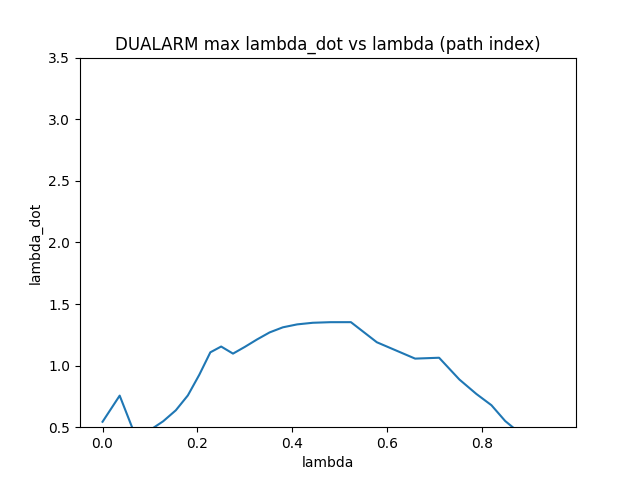
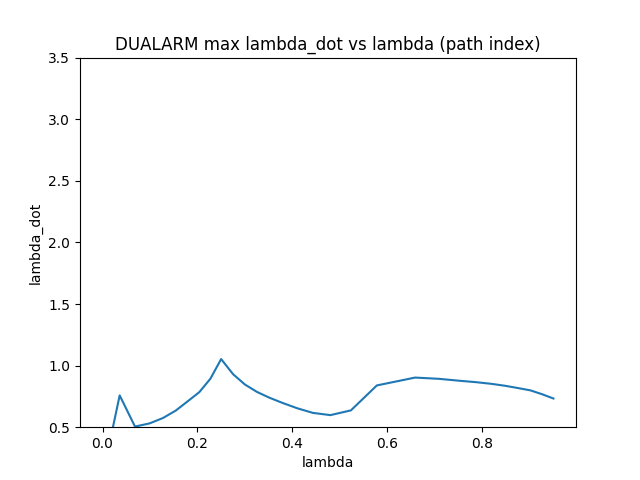
2 robot sim update

diff --git a/constraint_solver/dual_arm/dual_arm_opt.py b/constraint_solver/dual_arm/dual_arm_opt.py
@@ -15,19 +15,26 @@ curve_direction_z=data['direction_z'].tolist()
 relative_path=np.vstack((curve_x, curve_y, curve_z)).T
 relative_path_direction=np.vstack((curve_direction_x, curve_direction_y, curve_direction_z)).T
 
-robot1=abb6640()
-robot2=abb1200()
-opt=lambda_opt(relative_path,relative_path_direction,robot1=robot1,robot2=robot2,base2_R=np.array([[-1,0,0],[0,-1,0],[0,0,1]]),base2_p=np.array([3000,0,0]))
+robot1=abb1200()
+robot2=abb6640()
+base2_R=np.array([[-1,0,0],[0,-1,0],[0,0,1]])
+base2_p=np.array([3000,0,0])
+opt=lambda_opt(relative_path,relative_path_direction,robot1=robot1,robot2=robot2,base2_R=base2_R,base2_p=base2_p)
 
-q_init2=np.zeros(6)
-# q_init2[-2]=np.radians(30)
-pose2_world_now=robot2.fwd(q_init2,opt.base2_R,opt.base2_p)
+# q_init2=[0.181847959,	0.435384629,	0.465584225,	0.677493313,	-1.070550513,	-0.266374094]
+# pose2_world_now=robot2.fwd(q_init2,opt.base2_R,opt.base2_p)
+# R_temp=opt.direction2R(np.dot(pose2_world_now.R,opt.curve_normal[0]),np.dot(pose2_world_now.R,-opt.curve[1]+opt.curve[0]))
+# R=np.dot(R_temp,Rz(0))
+# q_init1=robot1.inv(pose2_world_now.p,R)[0]
 
-R_temp=opt.direction2R(np.dot(pose2_world_now.R,opt.curve_normal[0]),np.dot(pose2_world_now.R,-opt.curve[1]+opt.curve[0]))
+q_init1=np.radians([0,-25,31,6,-31,0])
+pose1_world_now=robot1.fwd(q_init1)
+# R_temp=opt.direction2R(np.dot(pose1_world_now.R,opt.curve_normal[0]),np.dot(pose1_world_now.R,-opt.curve[1]+opt.curve[0]))
+R_temp=np.array([	[0,0,1],
+					[0,1,0],
+					[-1,0,0]])
 R=np.dot(R_temp,Rz(0))
-
-q_init1=robot1.inv(pose2_world_now.p,R)[0]
-
+q_init2=robot2.inv(np.dot(base2_R,pose1_world_now.p-base2_p),R)[0]
 
 q_out1, q_out2=opt.dual_arm_stepwise_optimize(q_init1,q_init2)
 

diff --git a/simulation/gazebo_sim/execute_traj2.py b/simulation/gazebo_sim/execute_traj2.py
@@ -7,12 +7,17 @@ sys.path.append('../../toolbox')
 from robot_def import *
 
 def main():
-    joint_vel_limit=np.radians([110,90,90,150,120,235])
+    robot1="abb1200"
+    robot2="abb6640"
+    url={robot1:'rr+tcp://localhost:23333?service=robot',robot2:'rr+tcp://localhost:12222?service=robot'}
+    filename={robot1:'arm1.csv',robot2:'arm2.csv'}
+    print(url[robot1])
+
     base2_R=np.array([[-1,0,0],[0,-1,0],[0,0,1]])
-    base2_p=np.array([6000,0,0])
+    base2_p=np.array([3000,0,0])
     ###read actual curve
     col_names=['q1', 'q2', 'q3','q4', 'q5', 'q6'] 
-    data = read_csv("trajectory/dual_arm/arm1.csv", names=col_names)
+    data = read_csv("trajectory/dual_arm/"+filename[robot1], names=col_names)
     curve_q1=data['q1'].tolist()
     curve_q2=data['q2'].tolist()
     curve_q3=data['q3'].tolist()
@@ -22,7 +27,7 @@ def main():
     curve_js1=np.vstack((curve_q1, curve_q2, curve_q3,curve_q4,curve_q5,curve_q6)).T
 
     col_names=['q1', 'q2', 'q3','q4', 'q5', 'q6'] 
-    data = read_csv("trajectory/dual_arm/arm2.csv", names=col_names)
+    data = read_csv("trajectory/dual_arm/"+filename[robot2], names=col_names)
     curve_q1=data['q1'].tolist()
     curve_q2=data['q2'].tolist()
     curve_q3=data['q3'].tolist()
@@ -40,11 +45,6 @@ def main():
         p_prev=p_new
     ###normalize lam, 
     lam=np.array(lam)/lam[-1]
-
-    robot1="abb6640"
-    robot2="abb1200"
-    url={robot1:'rr+tcp://localhost:12222?service=robot',robot2:'rr+tcp://localhost:23333?service=robot'}
-    filename={robot1:'arm1.csv',robot2:'arm2.csv'}
 
     robot1_obj = RRN.ConnectService(url[robot1])
 

diff --git a/toolbox/robots_def.py b/toolbox/robots_def.py
@@ -16,9 +16,7 @@ ez=np.array([[0],[0],[1]])
 #ALL in mm
 class abb6640(object):
 	#default tool paintgun
-	def __init__(self, p_base=np.zeros(3), R_base=np.eye(3),R_tool=Ry(np.radians(120)),p_tool=np.array([0.45,0,-0.05])*1000.):
-		self.R_base=R_base
-		self.p_base=p_base
+	def __init__(self,R_tool=Ry(np.radians(120)),p_tool=np.array([0.45,0,-0.05])*1000.):
 		###ABB IRB 6640 180/2.55 Robot Definition
 		self.H=np.concatenate((ez,ey,ey,ex,ey,ex),axis=1)
 		p0=np.array([[0],[0],[0.78]])
@@ -66,9 +64,7 @@ class abb6640(object):
 
 class abb1200(object):
 	#default tool paintgun
-	def __init__(self, p_base=np.zeros(3), R_base=np.eye(3),R_tool=Ry(np.radians(120)),p_tool=np.array([0.45,0,-0.05])*1000.):
-		self.R_base=R_base
-		self.p_base=p_base
+	def __init__(self,R_tool=Ry(np.radians(120)),p_tool=np.array([0.45,0,-0.05])*1000.):
 		###ABB IRB 1200 5/0.9 Robot Definition
 		self.H=np.concatenate((ez,ey,ey,ex,ey,ex),axis=1)
 		p0=np.array([[0],[0],[0.3991]])
@@ -113,9 +109,7 @@ class abb1200(object):
 
 class arb_robot(object):
 	#R_tool make tool z pointing to +x at 0 config
-	def __init__(self, H,P,joint_type,upper_limit,lowerer_limit, joint_vel_limit,p_base=np.zeros(3), R_base=np.eye(3),R_tool=Ry(np.radians(90)),p_tool=np.zeros(3)):
-		self.R_base=R_base
-		self.p_base=p_base
+	def __init__(self, H,P,joint_type,upper_limit,lowerer_limit, joint_vel_limit,R_tool=Ry(np.radians(90)),p_tool=np.zeros(3)):
 		###All in mm
 		self.H=H
 		self.P=P

diff --git a/constraint_solver/constraint_solver.py b/constraint_solver/constraint_solver.py
@@ -12,7 +12,7 @@ from lambda_calc import *
 
 class lambda_opt(object):
 	###robot1 hold paint gun for single arm
-	###robot1 hold blade, robot2 hold paint gun for dual arm
+	###robot2 hold paint gun, robot2 hold blade for dual arm
 	def __init__(self,curve,curve_normal,robot1=abb6640(),robot2=abb1200(),base2_R=np.eye(3),base2_p=np.zeros(3),steps=32):
 		self.curve=curve
 		self.curve_normal=curve_normal
@@ -201,7 +201,7 @@ class lambda_opt(object):
 				print(q_all1[-1],q_all2[-1])
 				q_out1.append(q_all1[-1])
 				q_out2.append(q_all2[-1])			
-				raise AssertionError
+				# raise AssertionError
 				break
 
 			q_out1.append(q_all1[-1])
